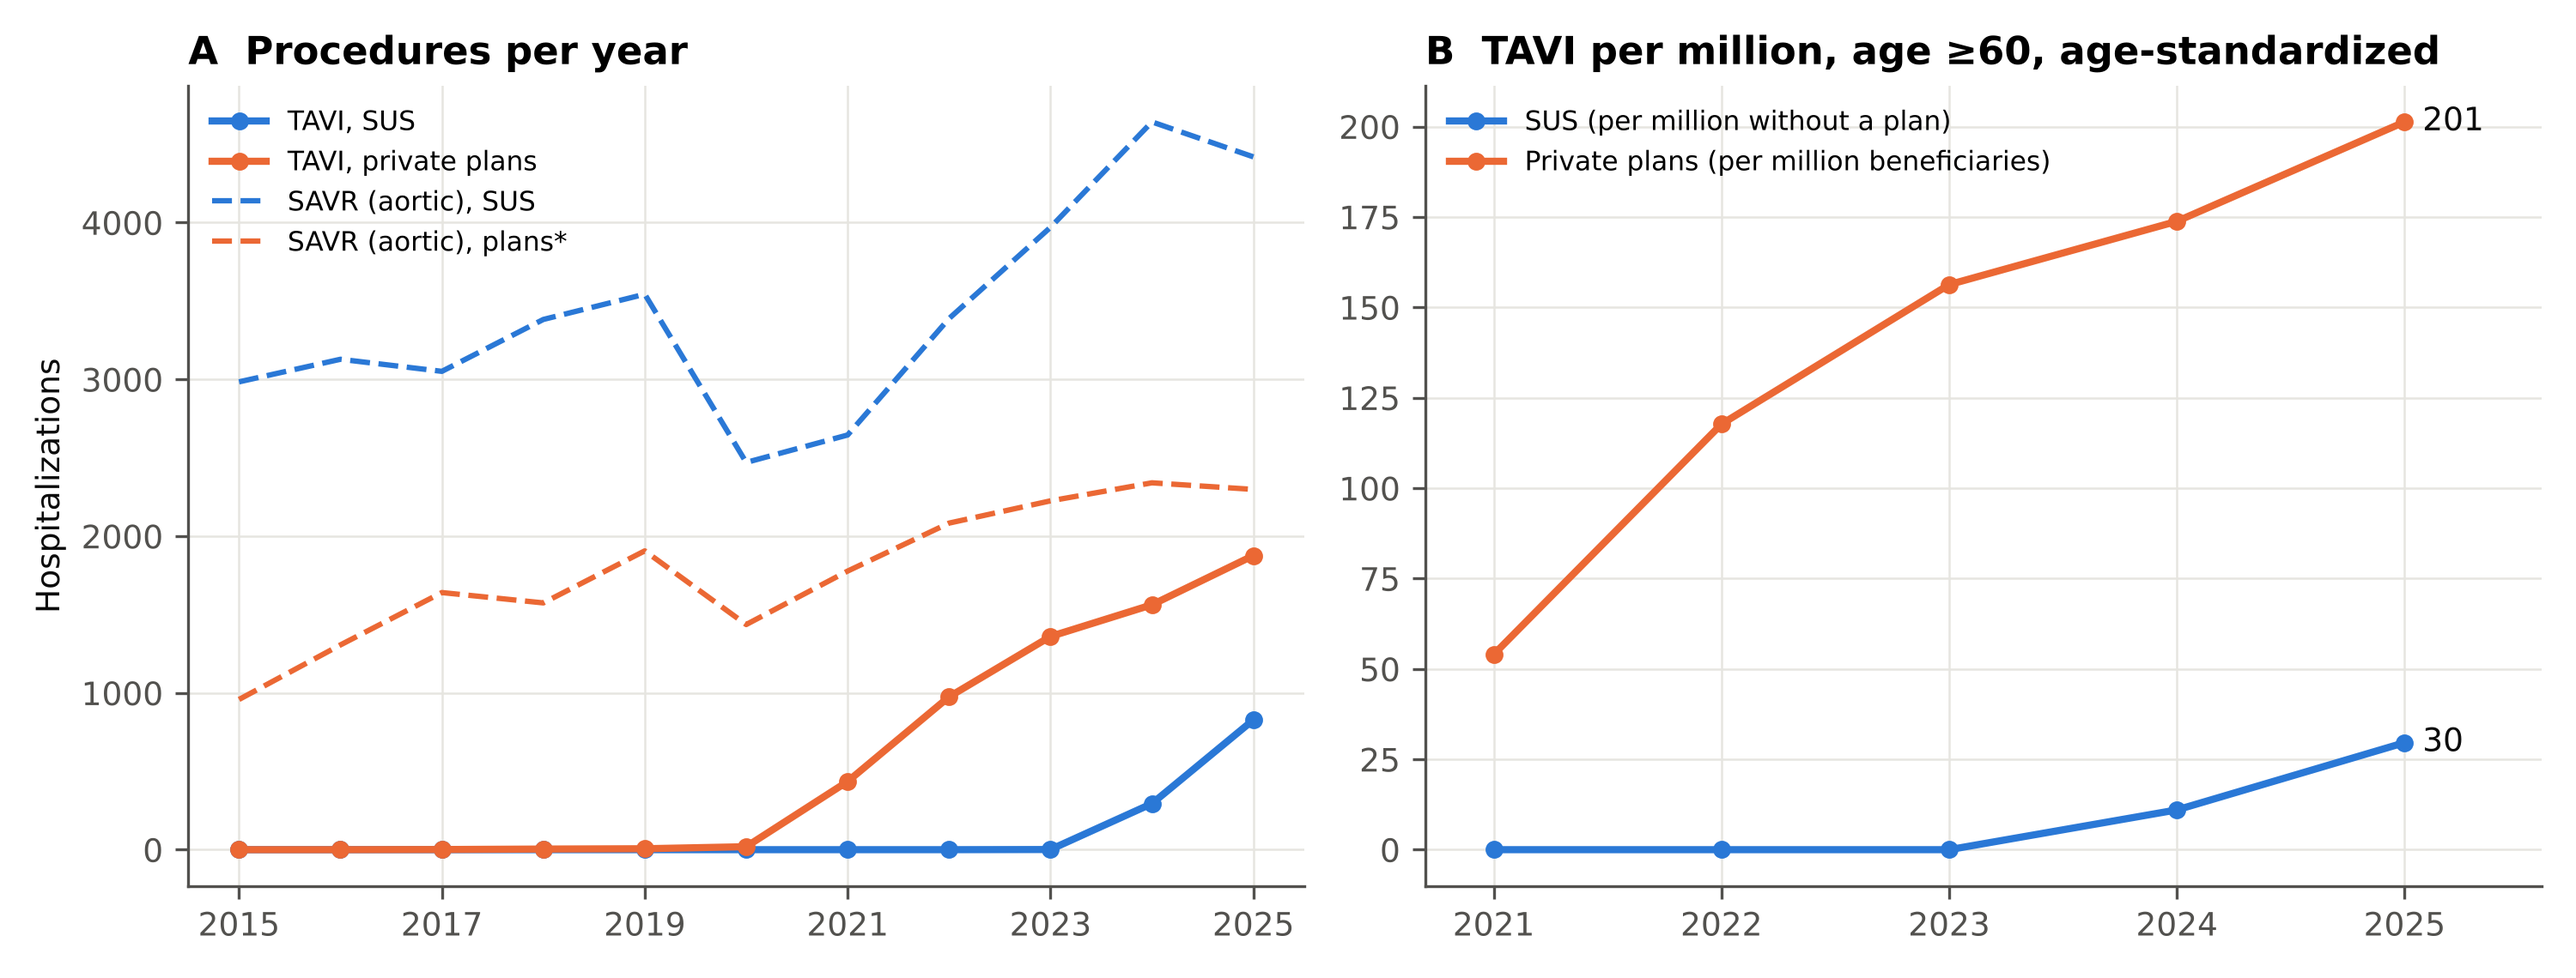
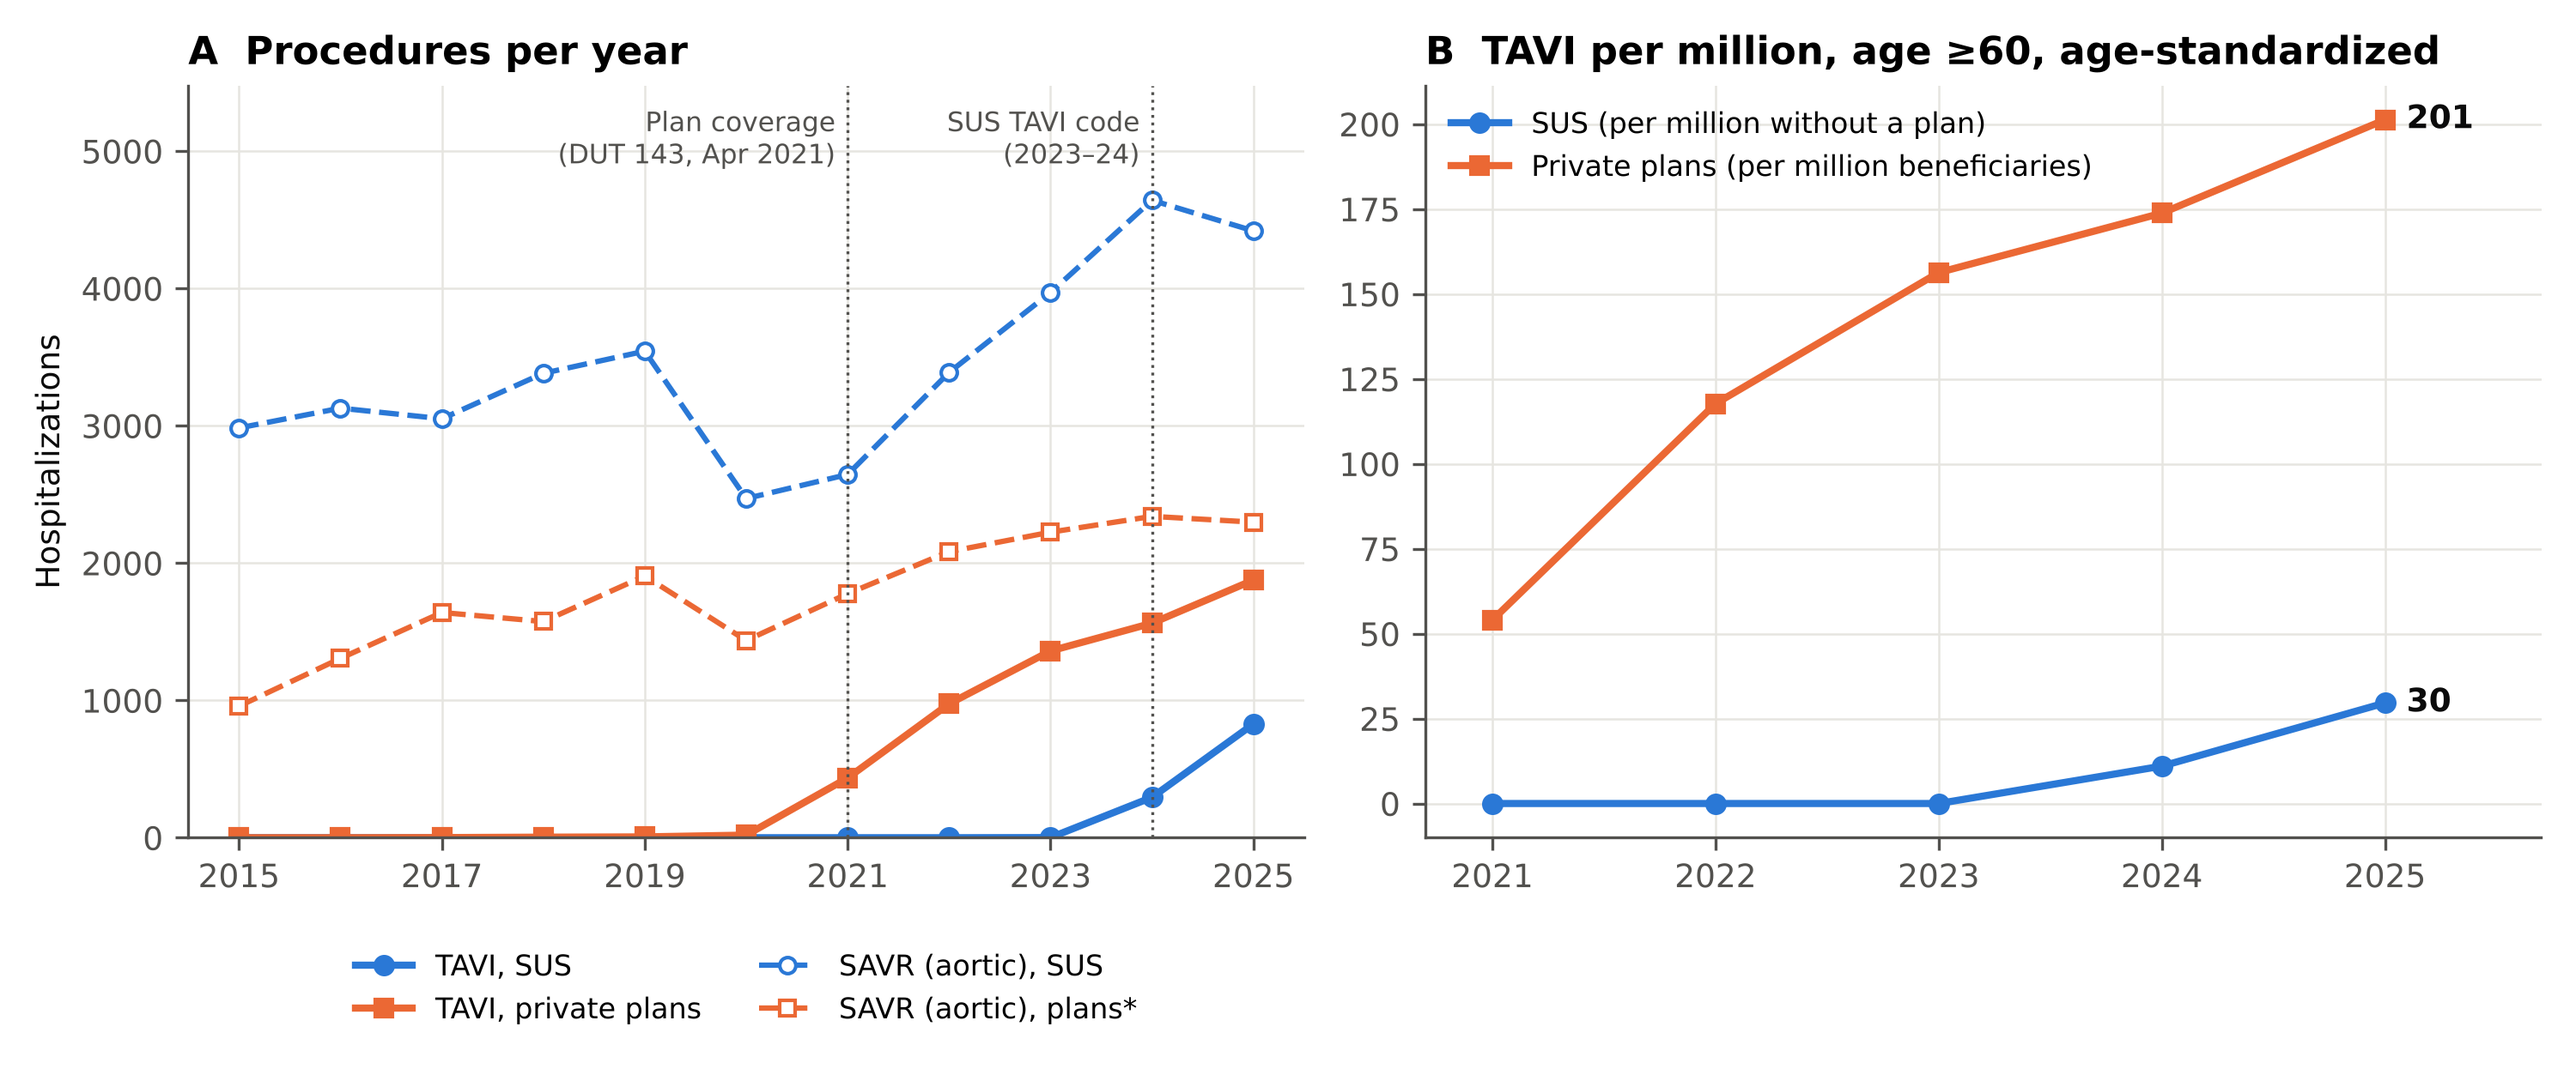
Second-round review: redesigned Figures 1, 2, 4; Figure S2; leave-one-out state model; protocol amendment 20 Nov 2026
Claude-Session: https://claude.ai/code/session_01R28sPKQ6judW2upEkmR7u2

diff --git a/tavi_savr/manuscrito/figuras_tavi.py b/tavi_savr/manuscrito/figuras_tavi.py
@@ -24,72 +24,81 @@ pad = pd.read_csv(f"{R}/resultados_auditoria/A2_A3_taxas_padronizadas_e_limites.
 
 # ---------- Figure 1: annual volume and standardized rates ----------
 a = nac[nac.ano.between(2015, 2025)].groupby("ano")[["TAVI_SUS", "TAVI_ANS", "SAVRaort_SUS", "SAVRaort_ANS_imput"]].sum()
-fig, ax = plt.subplots(1, 2, figsize=(10, 3.8))
-for col, cor, lab in [("TAVI_SUS", SUS, "TAVI, SUS"), ("TAVI_ANS", PL, "TAVI, private plans")]:
-    ax[0].plot(a.index, a[col], color=cor, lw=2, marker="o", ms=4, label=lab)
-for col, cor, lab in [("SAVRaort_SUS", SUS, "SAVR (aortic), SUS"), ("SAVRaort_ANS_imput", PL, "SAVR (aortic), plans*")]:
-    ax[0].plot(a.index, a[col], color=cor, lw=1.5, ls="--", label=lab)
+fig, ax = plt.subplots(1, 2, figsize=(10, 4.2))
+for col, cor, mk, lab in [("TAVI_SUS", SUS, "o", "TAVI, SUS"), ("TAVI_ANS", PL, "s", "TAVI, private plans")]:
+    ax[0].plot(a.index, a[col], color=cor, lw=2, marker=mk, ms=5, label=lab)
+for col, cor, mk, lab in [("SAVRaort_SUS", SUS, "o", "SAVR (aortic), SUS"), ("SAVRaort_ANS_imput", PL, "s", "SAVR (aortic), plans*")]:
+    ax[0].plot(a.index, a[col], color=cor, lw=1.5, ls="--", marker=mk, ms=4.5, mfc="white", label=lab)
+ymax = a.values.max() * 1.18
+for xe, txt in [(2021, "Plan coverage\n(DUT 143, Apr 2021)"), (2024, "SUS TAVI code\n(2023–24)")]:
+    ax[0].axvline(xe, color=INK2, lw=0.8, ls=":")
+    ax[0].text(xe - 0.12, ymax * 0.97, txt, ha="right", va="top", fontsize=7.5, color=INK2)
+ax[0].set_ylim(0, ymax)
 ax[0].set_title("A  Procedures per year", loc="left", fontweight="bold")
 ax[0].set_ylabel("Hospitalizations")
-ax[0].legend(fontsize=7.5, loc="upper left")
+ax[0].legend(fontsize=8, ncol=2, loc="upper center", bbox_to_anchor=(0.5, -0.12))
 ax[0].set_xticks(range(2015, 2026, 2))
 p = pad[pad.ano.between(2021, 2025)]
-ax[1].plot(p.ano, p.TAVI_SUS_por_sem_plano_padr60mais, color=SUS, lw=2, marker="o", ms=4, label="SUS (per million without a plan)")
-ax[1].plot(p.ano, p.TAVI_ANS_por_beneficiario_padr60mais, color=PL, lw=2, marker="o", ms=4, label="Private plans (per million beneficiaries)")
+ax[1].plot(p.ano, p.TAVI_SUS_por_sem_plano_padr60mais, color=SUS, lw=2, marker="o", ms=5, label="SUS (per million without a plan)")
+ax[1].plot(p.ano, p.TAVI_ANS_por_beneficiario_padr60mais, color=PL, lw=2, marker="s", ms=5, label="Private plans (per million beneficiaries)")
 for _, r in p[p.ano == 2025].iterrows():
-    ax[1].annotate(f"{r.TAVI_SUS_por_sem_plano_padr60mais:.0f}", (2025, r.TAVI_SUS_por_sem_plano_padr60mais), xytext=(5, 0),
-                   textcoords="offset points", va="center", color=INK)
-    ax[1].annotate(f"{r.TAVI_ANS_por_beneficiario_padr60mais:.0f}", (2025, r.TAVI_ANS_por_beneficiario_padr60mais), xytext=(5, 0),
-                   textcoords="offset points", va="center", color=INK)
+    for v in [r.TAVI_SUS_por_sem_plano_padr60mais, r.TAVI_ANS_por_beneficiario_padr60mais]:
+        ax[1].annotate(f"{v:.0f}", (2025, v), xytext=(6, 0), textcoords="offset points", va="center", color=INK, fontweight="bold")
 ax[1].set_title("B  TAVI per million, age ≥60, age-standardized", loc="left", fontweight="bold")
 ax[1].set_xticks(range(2021, 2026))
-ax[1].set_xlim(2020.7, 2025.6)
-ax[1].legend(fontsize=7.5, loc="upper left")
+ax[1].set_xlim(2020.7, 2025.7)
+ax[1].legend(fontsize=8, loc="upper left")
 fig.tight_layout()
 fig.savefig(f"{O}/Figure1.png", dpi=300)
 
-# ---------- Figure 2: age ----------
+# ---------- Figure 2: age (A rates, B % TAVI); Supplementary Figure S2: age distribution ----------
 F = ["60-69", "70-79", "80+"]
 n25 = nac[(nac.ano == 2025) & nac.faixa.isin(F)].set_index("faixa")
 pct = pd.read_csv(f"{R}/resultados_auditoria/A3_pct_TAVI_2025_limites.csv").set_index("faixa")
 dist = pd.read_csv(f"{R}/resultados_nacional/distribuicao_etaria_pct.csv")
-fig, ax = plt.subplots(1, 3, figsize=(12, 3.8), gridspec_kw={"width_ratios": [1, 1, 1.3]})
+fig, ax = plt.subplots(1, 2, figsize=(10, 4))
 x = np.arange(3)
-for i, (col, cor, lab) in enumerate([("TAVI_SUS_pm_dep", SUS, "SUS"), ("TAVI_ANS_pm_benef", PL, "Private plans")]):
+for i, (col, cor, hat, lab) in enumerate([("TAVI_SUS_pm_dep", SUS, None, "SUS"), ("TAVI_ANS_pm_benef", PL, "///", "Private plans")]):
     v = n25[col].values
-    b = ax[0].bar(x + (i - 0.5) * 0.38, v, 0.36, color=cor, label=lab)
-    ax[0].bar_label(b, fmt="%.0f", fontsize=7.5, padding=2, color=INK)
+    b = ax[0].bar(x + (i - 0.5) * 0.38, v, 0.36, color=cor, hatch=hat, edgecolor="white", label=lab)
+    ax[0].bar_label(b, fmt="%.0f", fontsize=8, padding=2, color=INK)
 ax[0].set_xticks(x, ["60–69", "70–79", "≥80"])
 ax[0].set_title("A  TAVI per million, 2025", loc="left", fontweight="bold")
 ax[0].set_xlabel("Age (years)")
-ax[0].legend(fontsize=7.5)
-ax[1].bar(x - 0.19, pct.SUS.values, 0.36, color=SUS, label="SUS")
-ax[1].bar(x + 0.19, pct.central.values, 0.36, color=PL, label="Private plans (central)")
+ax[0].legend(fontsize=8)
+ax[1].bar(x - 0.19, pct.SUS.values, 0.36, color=SUS, edgecolor="white", label="SUS")
+ax[1].bar(x + 0.19, pct.central.values, 0.36, color=PL, hatch="///", edgecolor="white", label="Private plans (central; whiskers = bounds)")
 ax[1].errorbar(x + 0.19, pct.central.values, yerr=[pct.central.values - pct.superior.values, pct.inferior.values - pct.central.values],
                fmt="none", ecolor=INK, capsize=3, lw=1)
 for xi, v in zip(x - 0.19, pct.SUS.values):
-    ax[1].text(xi, v + 2, f"{v:.0f}%", ha="center", fontsize=7.5)
+    ax[1].text(xi, v + 2, f"{v:.0f}%", ha="center", fontsize=8)
 for xi, v, c in zip(x + 0.19, pct.inferior.values, pct.central.values):
-    ax[1].text(xi, v + 2, f"{c:.0f}%", ha="center", fontsize=7.5)
+    ax[1].text(xi, v + 2, f"{c:.0f}%", ha="center", fontsize=8)
 ax[1].set_xticks(x, ["60–69", "70–79", "≥80"])
-ax[1].set_ylim(0, 108)
+ax[1].set_ylim(0, 110)
 ax[1].set_title("B  TAVI as % of aortic AVR, 2025", loc="left", fontweight="bold")
 ax[1].set_xlabel("Age (years)")
-ax[1].legend(fontsize=7.5, loc="upper left")
+ax[1].legend(fontsize=8, loc="upper left")
+fig.tight_layout()
+fig.savefig(f"{O}/Figure2.png", dpi=300)
+
+fig, ax2 = plt.subplots(figsize=(7, 4))
 d = dist[dist.grupo.eq("TAVI") & ((dist.fonte.eq("ANS") & dist.ano.between(2021, 2025)) | (dist.fonte.eq("SUS") & dist.ano.between(2024, 2025)))]
 rot = [f"Plans\n{a}" if f == "ANS" else f"SUS\n{a}" for f, a in zip(d.fonte, d.ano)]
 base = np.zeros(len(d))
 cores = {"<60": "#e6e5e0", "60-69": "#9ec5f0", "70-79": "#2a78d6", "80+": "#163f74"}
 for k, lab in [("<60", "<60"), ("60-69", "60–69"), ("70-79", "70–79"), ("80+", "≥80")]:
-    ax[2].bar(range(len(d)), d[k].values, bottom=base, color=cores[k], label=lab, edgecolor="white", linewidth=1)
+    bb = ax2.bar(range(len(d)), d[k].values, bottom=base, color=cores[k], label=lab, edgecolor="white", linewidth=1)
+    if k in ("70-79", "80+"):
+        ax2.bar_label(bb, labels=[f"{v:.0f}" for v in d[k].values], label_type="center", fontsize=7.5, color="white")
     base += d[k].values
-ax[2].set_xticks(range(len(d)), rot, fontsize=7.5)
-ax[2].set_ylabel("% of TAVI")
-ax[2].set_title("C  Age distribution of TAVI", loc="left", fontweight="bold")
-ax[2].legend(fontsize=7.5, ncol=4, loc="upper center", bbox_to_anchor=(0.5, -0.18))
-ax[2].grid(False)
+ax2.set_xticks(range(len(d)), rot, fontsize=8)
+ax2.set_ylabel("% of TAVI")
+ax2.set_title("Age distribution of TAVI by payer and year", loc="left", fontweight="bold")
+ax2.legend(fontsize=8, ncol=4, loc="upper center", bbox_to_anchor=(0.5, -0.16), title="Age (years)", title_fontsize=8)
+ax2.grid(False)
 fig.tight_layout()
-fig.savefig(f"{O}/Figure2.png", dpi=300)
+fig.savefig(f"{O}/FigureS2.png", dpi=300)
 
 # ---------- Figure 3: maps ----------
 uf = pd.read_csv(f"{R}/resultados_geografia/taxas_uf_residencia_2025_padronizadas.csv").set_index("uf")
@@ -140,16 +149,42 @@ cb.ax.set_yticklabels([">0", "5", "25", "100", "200", "400"])
 cb.set_label("TAVI per million, age ≥60, age-standardized, 2025")
 fig.savefig(f"{O}/Figure3.png", dpi=300, bbox_inches="tight")
 
-# ---------- Figure 4: international ----------
+# ---------- Figure 4: international context ----------
 intl = pd.read_csv(os.path.join(R, "manuscrito", "tabela_internacional.csv"))
-intl = intl[intl.no_grafico.eq(1)].sort_values("tavi_por_milhao")
-fig, ax = plt.subplots(figsize=(7.5, 4))
-cor = [SUS if "Brazil" in s else GR for s in intl.rotulo]
-b = ax.barh(intl.rotulo, intl.tavi_por_milhao, color=cor, height=0.6)
-ax.bar_label(b, labels=[f"{v:.1f}" if v < 1 else f"{v:.0f}" for v in intl.tavi_por_milhao], padding=3, fontsize=8)
+ref = intl[intl.grupo.str.startswith("Reference")].set_index("rotulo").tavi_por_milhao
+bars = intl[intl.no_grafico.eq(1) & ~intl.grupo.str.startswith("Reference")]
+ordem = ["High-income countries", "High-income countries, earlier adoption", "Brazil (this study)"]
+rows, ys, y = [], [], 0
+gy = {}
+for g in ordem:
+    sub = bars[bars.grupo.eq(g)].sort_values("tavi_por_milhao", ascending=False)
+    gy[g] = y
+    y += 0.9
+    for _, r in sub.iterrows():
+        rows.append(r)
+        ys.append(y)
+        y += 1
+    y += 0.4
+rows = pd.DataFrame(rows)
+fig, ax = plt.subplots(figsize=(7.5, 5.2))
+cor = ["#163f74" if "SUS +" in s else SUS if "SUS only" in s else GR for s in rows.rotulo]
+b = ax.barh(ys, rows.tavi_por_milhao, color=cor, height=0.7)
+ax.bar_label(b, labels=[f"{v:.1f}" if v < 20 else f"{v:.0f}" for v in rows.tavi_por_milhao], padding=3, fontsize=8.5)
+ax.set_yticks(ys, rows.rotulo, fontsize=8.5)
+for g, yy in gy.items():
+    ax.text(-0.01, yy, g.replace(", earlier adoption", ": earlier adoption"), transform=ax.get_yaxis_transform(), ha="right",
+            va="center", fontsize=8.5, fontweight="bold", color=INK)
+ax.invert_yaxis()
+hi = ref.filter(like="high-income").iloc[0]
+mi = ref.filter(like="middle-income").iloc[0]
+for v, txt in [(hi, f"ESC high-income median {hi:.0f}"), (mi, f"ESC middle-income median {mi:.0f}")]:
+    ax.axvline(v, color=INK2, lw=1, ls="--")
+    ax.text(v + 2, ys[-1] + 0.9 if v < 50 else -0.2, txt, fontsize=7.5, color=INK2, va="center")
 ax.set_xlabel("TAVI per million inhabitants (total population)")
+ax.set_title("International context: TAVI per million inhabitants", loc="left", fontweight="bold")
 ax.grid(axis="y", visible=False)
-ax.set_xlim(0, intl.tavi_por_milhao.max() * 1.12)
+ax.set_xlim(0, rows.tavi_por_milhao.max() * 1.15)
+ax.set_ylim(ys[-1] + 1.5, -0.9)
 fig.tight_layout()
-fig.savefig(f"{O}/Figure4.png", dpi=300)
+fig.savefig(f"{O}/Figure4.png", dpi=300, bbox_inches="tight")
 print("ok")

diff --git a/tavi_savr/manuscrito/tabela1.py b/tavi_savr/manuscrito/tabela1.py
@@ -41,7 +41,8 @@ def pct(m):
 
 
 def faixas_sus(x):
-    return {"<60": x < 60, "60–69": x.between(60, 69), "70–74": x.between(70, 74), "75–79": x.between(75, 79), "≥80": x >= 80}
+    return {"<60": x < 60, "60–69": x.between(60, 69), "70–79": x.between(70, 79), "  70–74 (SUS only)": x.between(70, 74),
+            "  75–79 (SUS only)": x.between(75, 79), "≥80": x >= 80}
 
 
 cols = {}
@@ -50,10 +51,9 @@ for g in ["TAVI", "SAVR"]:
     r = {"Hospitalizations, n": f"{len(s):,}",
          "Age, median (IQR), years": f"{s.idade.median():.0f} ({s.idade.quantile(.25):.0f}–{s.idade.quantile(.75):.0f})"}
     for k, m in faixas_sus(s.idade).items():
-        r[f"Age {k}, n (%)"] = pct(m)
+        r[f"Age {k.strip()}, n (%)"] = pct(m)
     r["Female, n (%)"] = pct(s.SEXO.isin(["3", "2"]))
     r["Urgent admission, n (%)"] = pct(s.CAR_INT.ne("01"))
-    r["Principal diagnosis I35 (non-rheumatic), n (%)"] = pct(s.DIAG_PRINC.str.startswith("I35"))
     r["Principal diagnosis I35.0 (aortic stenosis), n (%)"] = pct(s.DIAG_PRINC.str.startswith("I350"))
     r["Principal diagnosis I06 (rheumatic), n (%)"] = pct(s.DIAG_PRINC.str.startswith("I06"))
     r["Length of stay, median (IQR), days"] = (f"{pd.to_numeric(s.DIAS_PERM).median():.0f} "
@@ -65,11 +65,11 @@ for g in ["TAVI", "SAVR"]:
     t = ti[ti.g.eq(g)]
     f = fx[t.index] if False else t.FAIXA_ETARIA.str.extract(r"^(\d+)")[0].astype(float)
     r = {"Hospitalizations, n": f"{len(t):,}", "Age, median (IQR), years": "n/a (10-year bands)"}
-    for k, m in {"<60": f < 60, "60–69": f.eq(60), "70–74": None, "75–79": None, "≥80": f >= 80}.items():
-        r[f"Age {k}, n (%)"] = pct(m) if m is not None else ("70–79: " + pct(f.eq(70)) if k == "70–74" else "")
+    for k, m in {"<60": f < 60, "60–69": f.eq(60), "70–79": f.eq(70), "  70–74 (SUS only)": None, "  75–79 (SUS only)": None,
+                 "≥80": f >= 80}.items():
+        r[f"Age {k.strip()}, n (%)"] = pct(m) if m is not None else "—"
     r["Female, n (%)"] = pct(t.SEXO.str.upper().str.startswith("F"))
     r["Urgent admission, n (%)"] = pct(t.CD_CARATER_ATENDIMENTO.str.strip().eq("2"))
-    r["Principal diagnosis I35 (non-rheumatic), n (%)"] = pct(t.CID_1.str.strip().str.upper().str.startswith("I35"))
     r["Principal diagnosis I35.0 (aortic stenosis), n (%)"] = pct(t.CID_1.str.strip().str.upper().str.startswith("I350"))
     r["Principal diagnosis I06 (rheumatic), n (%)"] = pct(t.CID_1.str.strip().str.upper().str.startswith("I06"))
     lp = pd.to_numeric(t.TEMPO_DE_PERMANENCIA, errors="coerce")

diff --git a/tavi_savr/modelo_uf.py b/tavi_savr/modelo_uf.py
@@ -101,3 +101,17 @@ dec = pd.DataFrame([{"SUS_bruta": bruta_sus, "Planos_bruta": bruta_pl, "razao_br
                      "pct_diferenca_bruta_devida_idade": 100 * (1 - (pad_pl - pad_sus) / (bruta_pl - bruta_sus))}]).round(2)
 dec.to_csv(f"{S}/decomposicao_sus_planos_2025.csv", index=False)
 print(dec.T)
+
+# ---------- estabilidade: retirar uma UF de cada vez (TAVI SUS, NB2) ----------
+loo = []
+for u in d.index:
+    dd = d.drop(index=u)
+    Xm = sm.add_constant(dd[X].astype(float))
+    try:
+        r = sm.NegativeBinomial(dd["TAVI_SUS"].astype(float), Xm, offset=np.log(dd["esp_TAVI_SUS"].astype(float))).fit(disp=0, maxiter=500)
+        loo.append({"uf_retirada": u, **{f"IRR_{v}": np.exp(r.params[v]) for v in X}})
+    except Exception as e:
+        loo.append({"uf_retirada": u, "erro": str(e)[:60]})
+loo = pd.DataFrame(loo).round(2)
+loo.to_csv(f"{S}/modelo_uf_retirando_uma_uf.csv", index=False)
+print(loo.describe().loc[["min", "max"]])

diff --git a/docs/study_protocol.md b/docs/study_protocol.md
@@ -2,7 +2,7 @@
 title: "Study protocol and statistical analysis plan — Transcatheter aortic valve implantation in Brazil's public and private health sectors, 2015–2025"
 ---
 
-*English translation of the analysis plan frozen on 31 October 2026 (original in Portuguese: `tavi_savr/PLANO_ANALISE_v1.md`), with dated amendments. Prepared 16 November 2026.*
+*English translation of the analysis plan frozen on 31 October 2026 (original in Portuguese: `tavi_savr/PLANO_ANALISE_v1.md`), with dated amendments. Prepared 16 November 2026; updated 20 November 2026.*
 
 # 1. Objectives
 
@@ -57,6 +57,7 @@ Continuously reporting plans (2021–2025); June vs December beneficiaries; valv
 - **5 Nov 2026** (internal review): payer ratio by tertile of state plan coverage (overlap of denominators).
 - **13 Nov 2026:** age-standardized aortic stenosis mortality with the definition of Siddiqi et al. 2026 (I35.0, I35.2, I06.0, I06.2 as underlying or contributing cause; ≥45 years; 2000 US standard population), average annual percent change by log-linear regression.
 - **14 Nov 2026:** hospital location approximated by the centroid of the hospital's municipality (as residence), for the public data package without establishment coordinates; the CIHA (self-pay) was not used in the main analyses.
+- **20 Nov 2026** (after fourth external review), planned analyses not executed or modified: (i) CIHA (self-pay) analyses were not executed; (ii) SAVR including I71 is reported only as counts of multiple-surgery hospitalizations (audit A1), not as rates; (iii) exclusion of TAVI <75 years was feasible only for the SUS, because TISS reports age in 10-year bands (70–79); (iv) Poisson with robust errors for the state model is reported in Supplementary Table S16. Added: leave-one-state-out estimates for the negative binomial model; audit of the SIGTAP TAVI code transition (04.06.01.152-4 to 04.06.03.016-2; month of switch and hospitalizations with both codes, Supplementary Table S21); SUS TAVI below 75 years split into <70 and 70–74 years.
 
 # 7. Ethics and data
 
